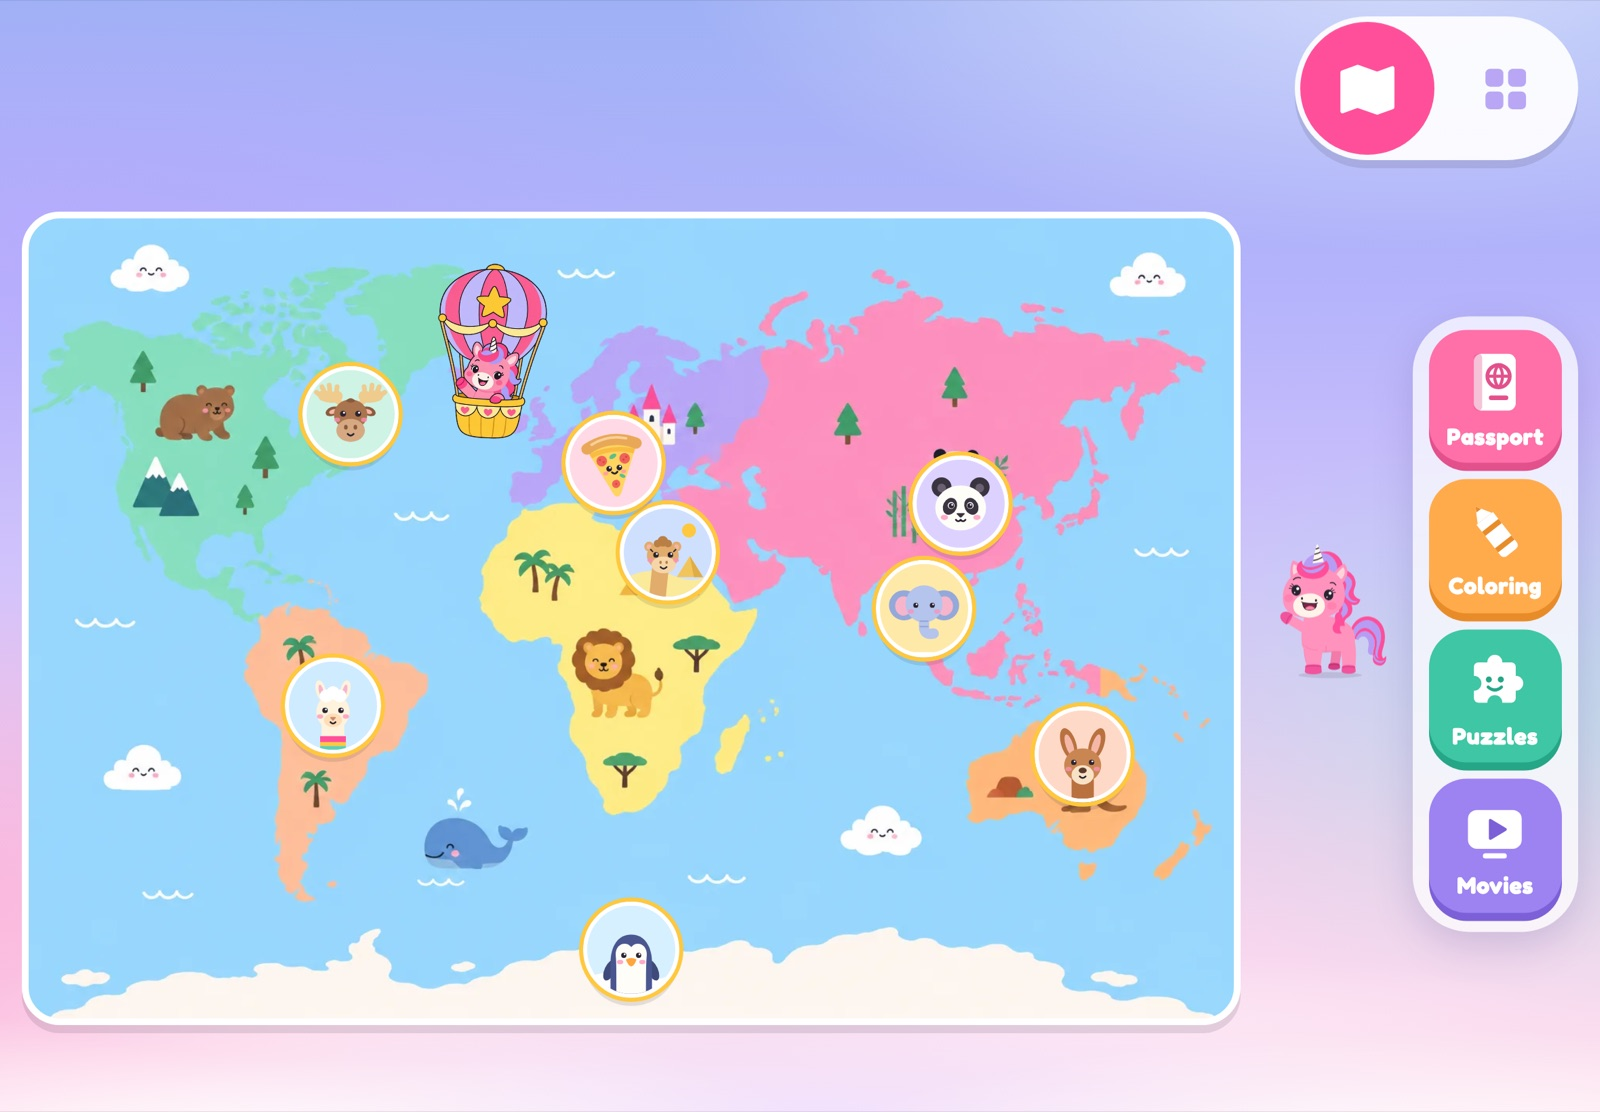
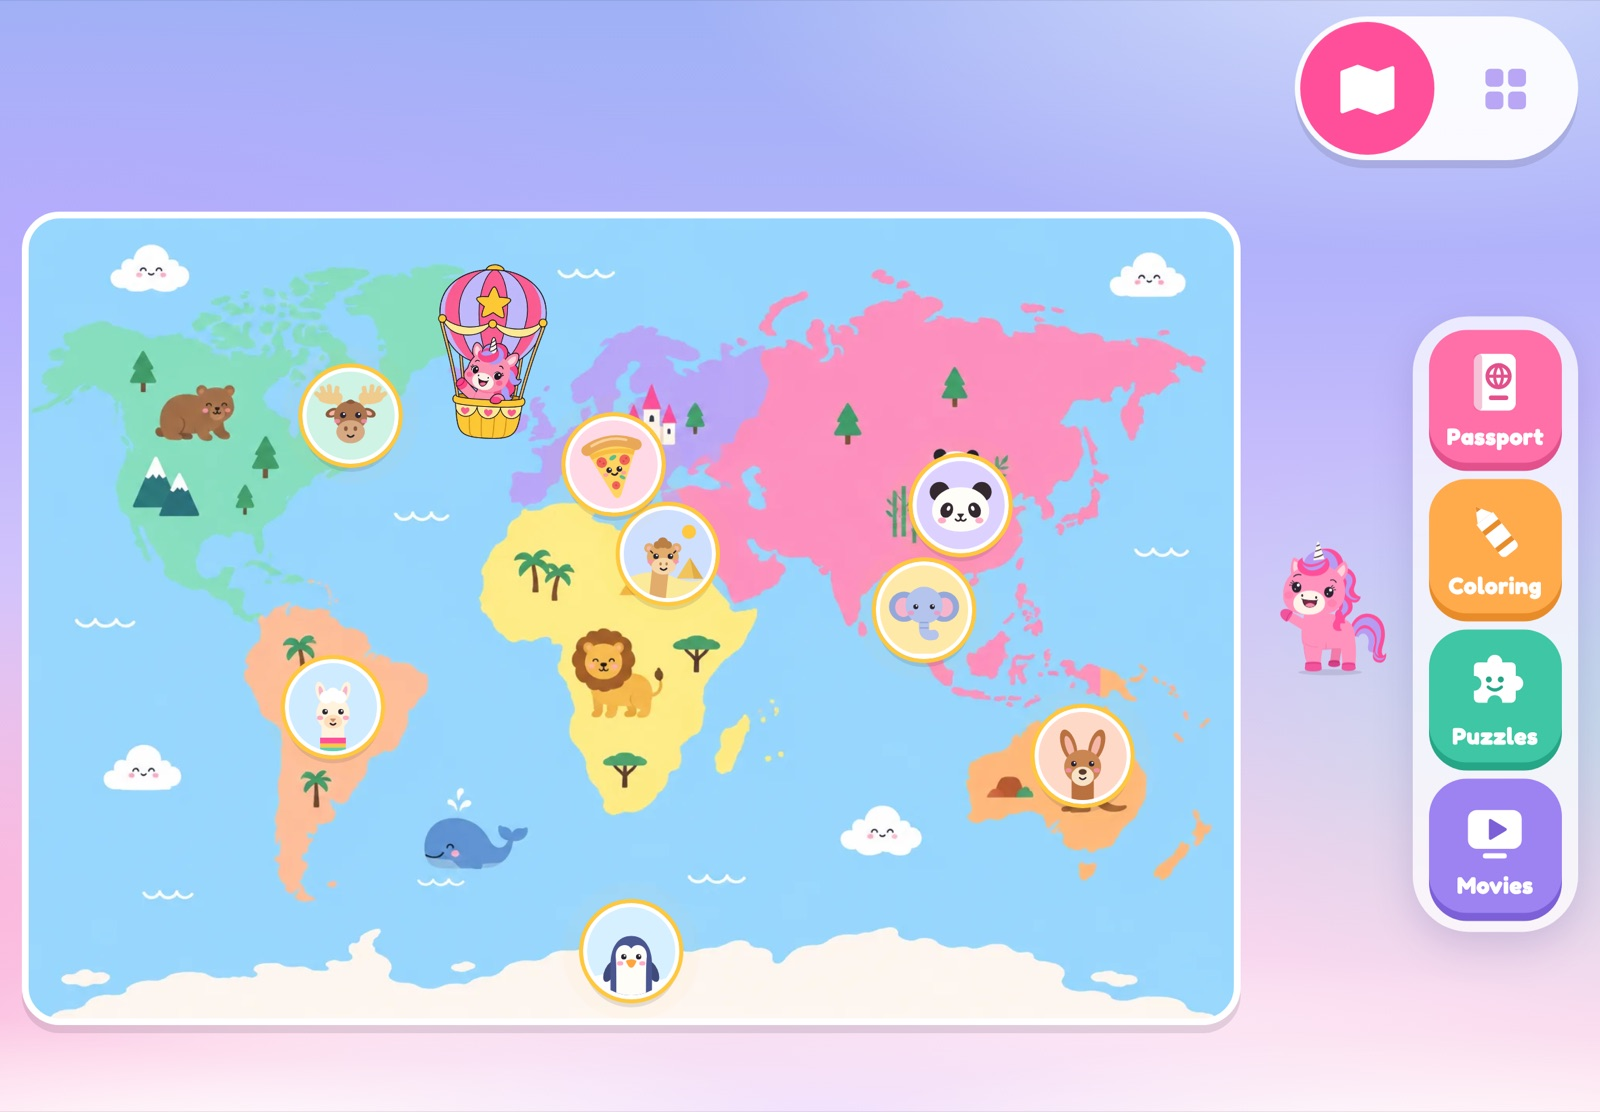
Review page for neb636/map-pin-polish

diff --git a/neb636--map-pin-polish/index.html b/neb636--map-pin-polish/index.html
@@ -41,7 +41,7 @@ button:focus-visible,.pill:focus-visible{outline:3px solid var(--ink);outline-of
 
 
 <h2>Before and after</h2><div class="pics"><figure class="pair"><div><img src="pics/pins-close-before.jpg" alt="Before: Up close" loading="lazy"><span>Before</span></div><div><img src="pics/pins-close.jpg" alt="After: Up close" loading="lazy"><span>After</span></div>
-<figcaption><b>Up close</b>: Moose: flat antlers with points, a longer face. Pizza: the whole slice shows. Panda: both ears show, shiny eyes.</figcaption></figure>
+<figcaption><b>Up close</b>: Moose: flat antlers with points, a longer face. Pizza: the whole slice shows. Panda: the classic cute face, with slanted eye patches, a glint in each eye and a little w smile.</figcaption></figure>
 <figure class="pair"><div><img src="pics/pins-before-ipad.jpg" alt="Before: On the iPad" loading="lazy"><span>Before</span></div><div><img src="pics/pins-after-ipad.jpg" alt="After: On the iPad" loading="lazy"><span>After</span></div>
 <figcaption><b>On the iPad</b>: Circles are 10% smaller; they tap the same as before.</figcaption></figure>
 <figure class="pair"><div><img src="pics/pins-before-iphone.jpg" alt="Before: On the iPhone" loading="lazy"><span>Before</span></div><div><img src="pics/pins-after-iphone.jpg" alt="After: On the iPhone" loading="lazy"><span>After</span></div>
